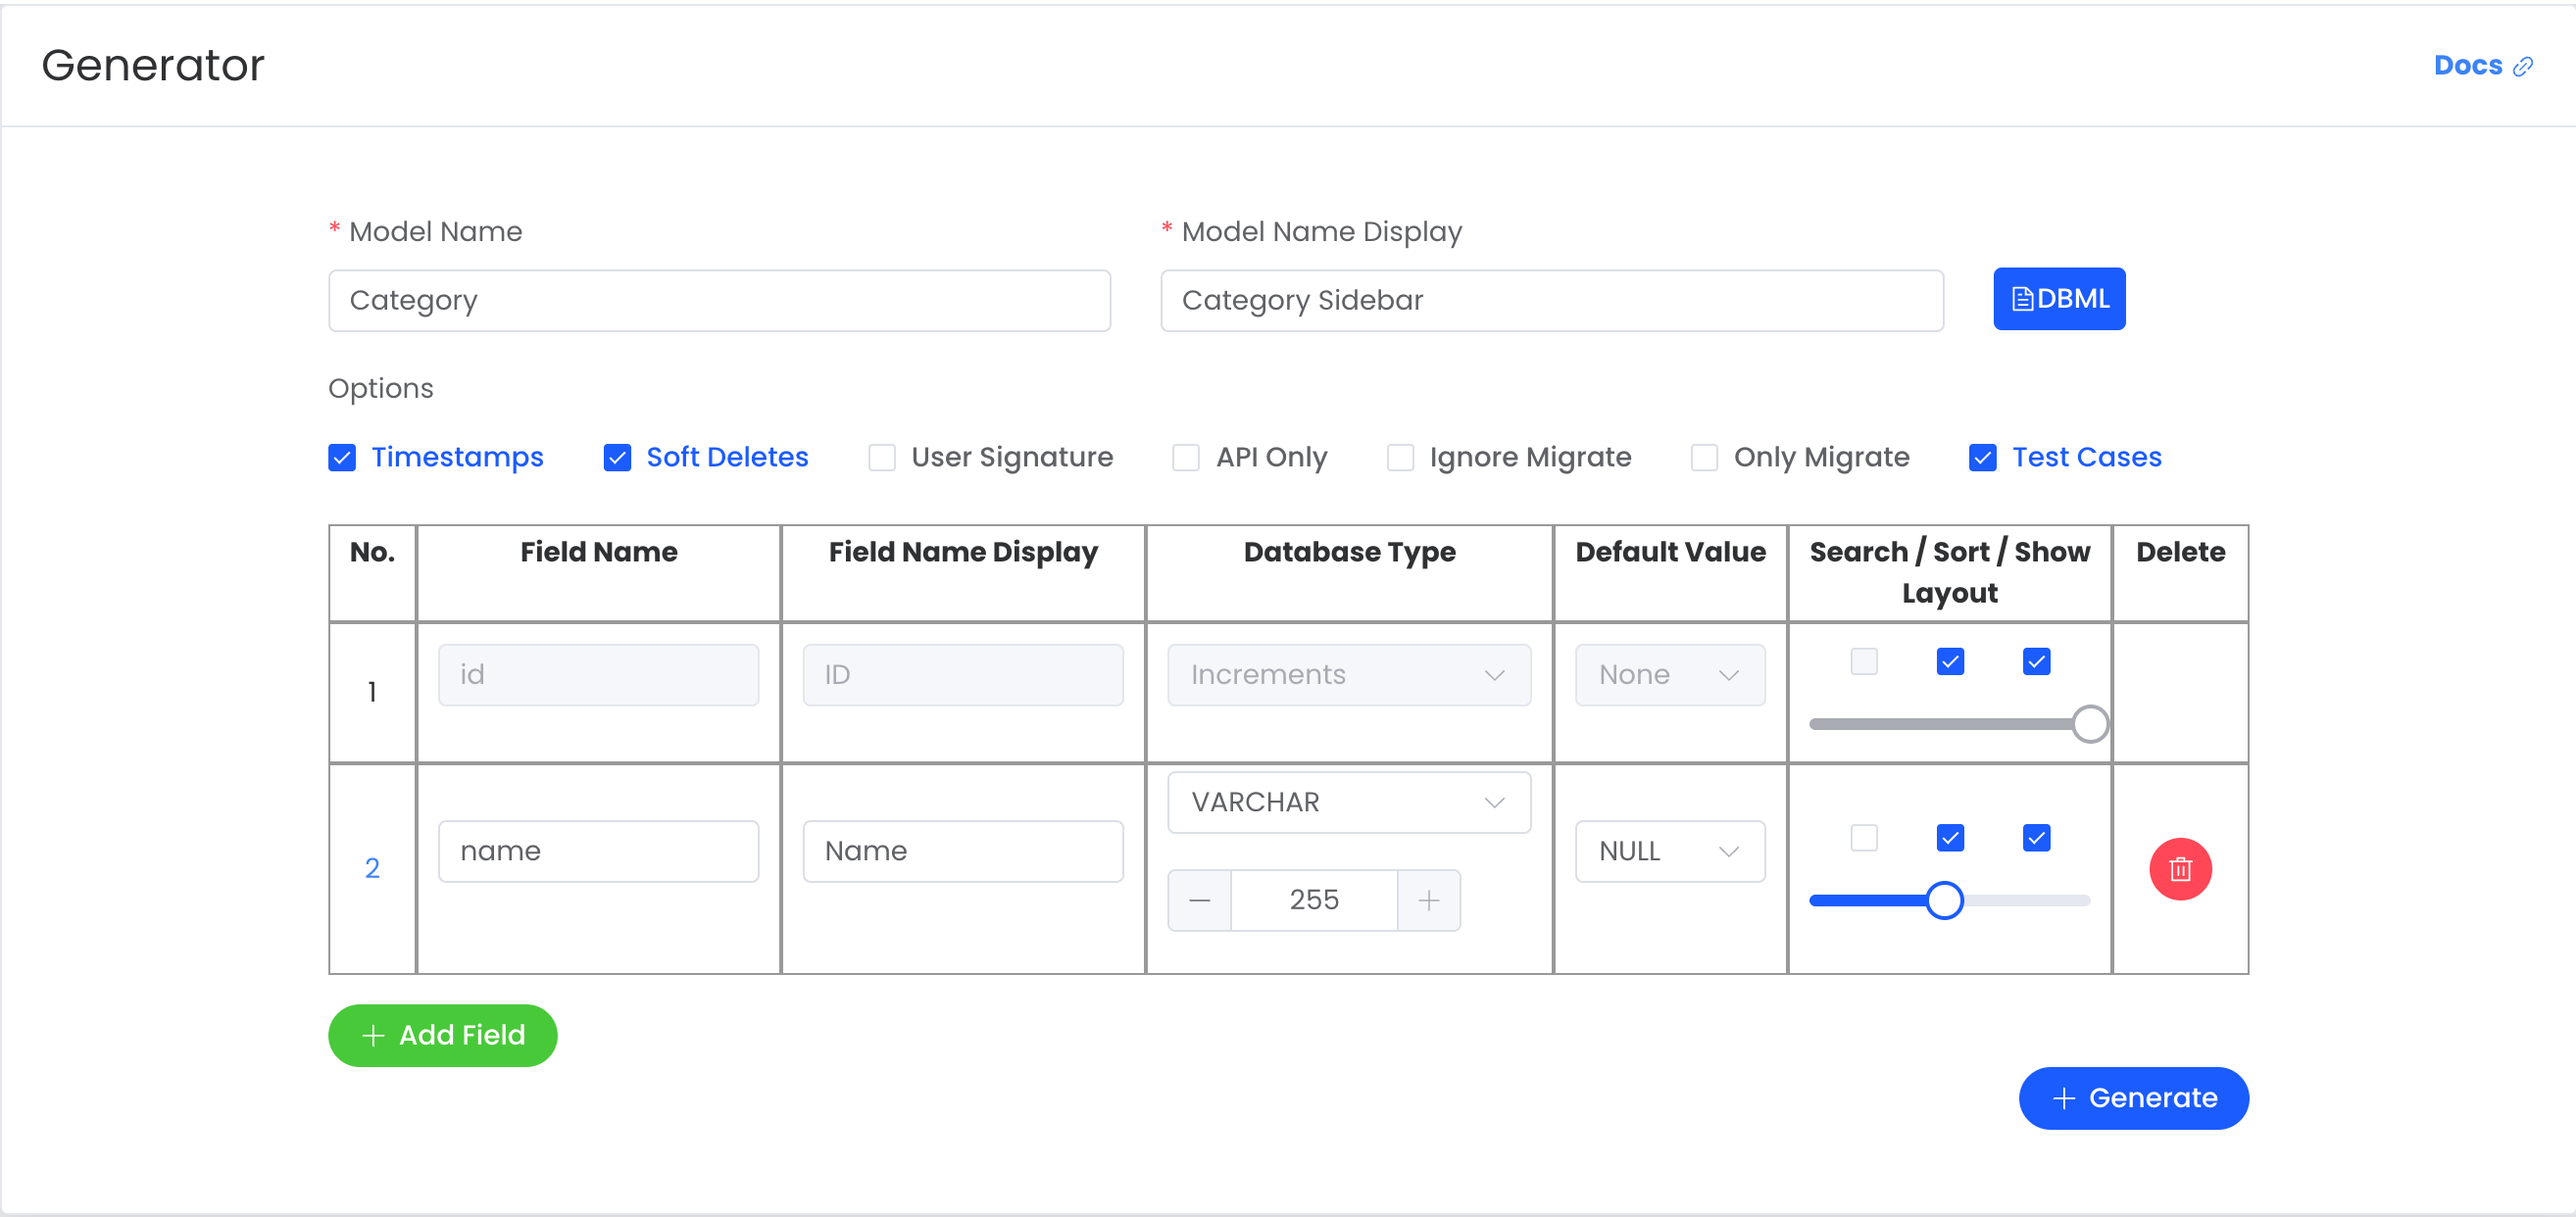
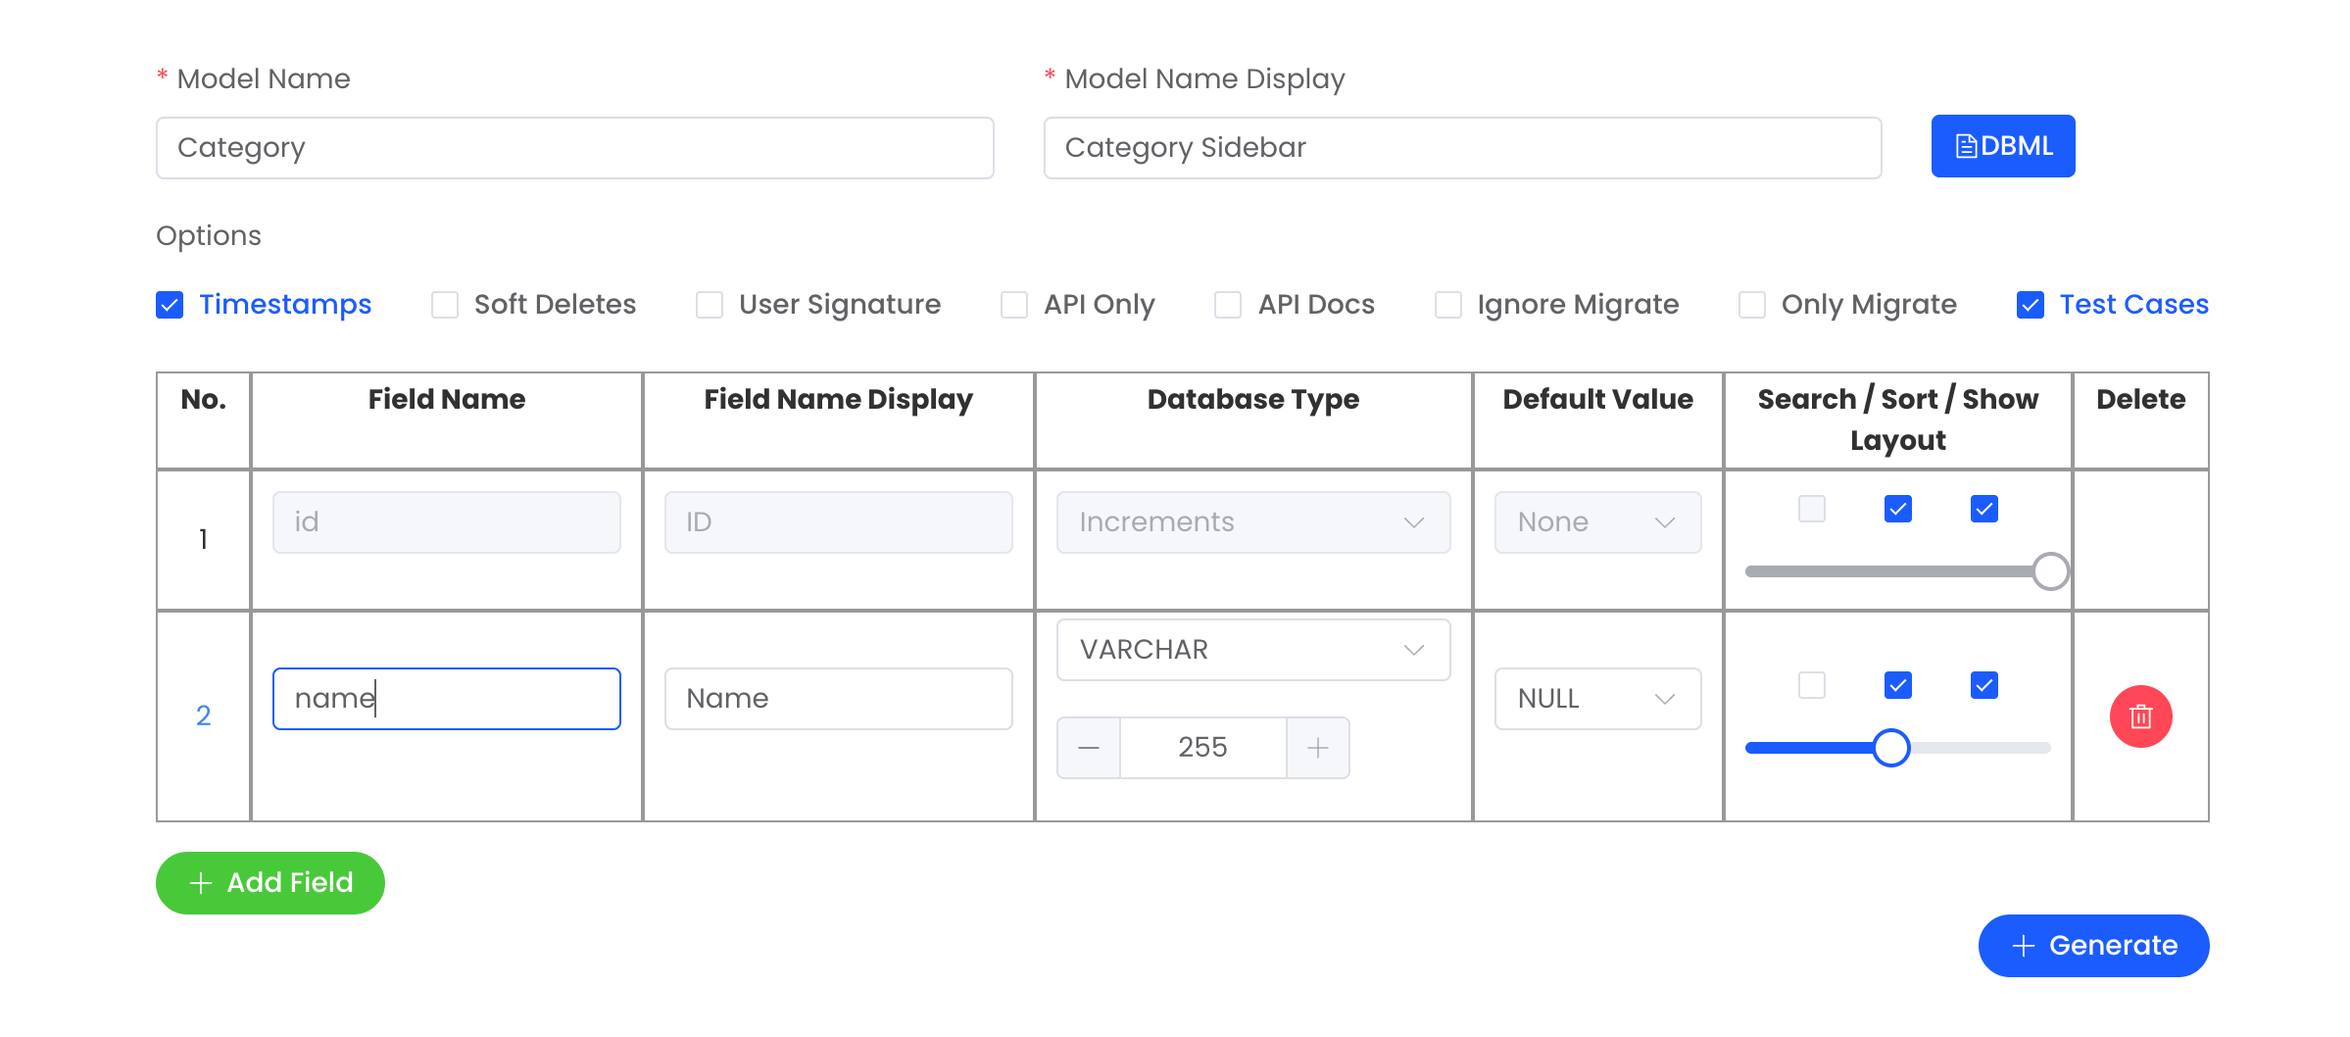
docs: generate api docs

diff --git a/docs/generators/getting-started.md b/docs/generators/getting-started.md
@@ -64,10 +64,284 @@ The **Generator** allows users to define and configure models along with their f
 | `Timestamps`     | Automatically adds `created_at` and `updated_at` columns to the table.           | Checked     |             | Optional       |
 | `Soft Deletes`   | Adds support for soft deletion (adds a `deleted_at` column).                     | Checked     |             | Optional       |
 | `User Signature` | Adds `created_by` and `updated_by` columns to track who created/updated records. | UnChecked   |             | Optional       |
-| `APi Only`       | Only generate the API                                                            | UnChecked   |             | Optional       |
+| `API Only`       | Only generate the API.                                                           | UnChecked   |             | Optional       |
+| `API Docs`       | Generate docs for the API. [Learn more](#if-you-enable-api-docs)                 | UnChecked   |             | Optional       |
 | `Ignore Migrate` | Skips running database migrations.                                               | UnChecked   |             | Optional       |
 | `Only Migrate`   | Only generate migration and Model.                                               | UnChecked   |             | Optional       |
 | `Test Cases`     | Generates test cases for the model and related services.                         | Checked     |             | Optional       |
+
+#### If you enable API Docs
+
+::: details API Docs <Badge type="danger" text="Required" />
+Install the Scribe package first:
+
+```bash
+composer require knuckleswtf/scribe
+```
+
+Reference config (Optional):
+
+```php
+<?php
+
+declare(strict_types=1);
+
+use Knuckles\Scribe\Extracting\Strategies;
+
+return [
+    // The HTML <title> for the generated documentation. If this is empty, Scribe will infer it from config('app.name').
+    'title' => 'LaraJS API Documentation',
+
+    // A short description of your API. Will be included in the docs webpage, Postman collection and OpenAPI spec.
+    'description' => '',
+
+    // The base URL displayed in the docs. If this is empty, Scribe will use the value of config('app.url') at generation time.
+    // If you're using `laravel` type, you can set this to a dynamic string, like '{{ config("app.tenant_url") }}' to get a dynamic base URL.
+    'base_url' => null,
+
+    'routes' => [
+        [
+            // Routes that match these conditions will be included in the docs
+            'match' => [
+                // Match only routes whose paths match this pattern (use * as a wildcard to match any characters). Example: 'users/*'.
+                'prefixes' => ['api/*'],
+
+                // Match only routes whose domains match this pattern (use * as a wildcard to match any characters). Example: 'api.*'.
+                'domains' => ['*'],
+
+                // [Dingo router only] Match only routes registered under this version. Wildcards are NOT supported.
+                'versions' => ['v1'],
+            ],
+
+            // Include these routes even if they did not match the rules above.
+            'include' => [
+                // 'users.index', 'POST /new', '/auth/*'
+            ],
+
+            // Exclude these routes even if they matched the rules above.
+            'exclude' => ['api/v1/generators*'],
+        ],
+    ],
+
+    // The type of documentation output to generate.
+    // - "static" will generate a static HTMl page in the /public/docs folder,
+    // - "laravel" will generate the documentation as a Blade view, so you can add routing and authentication.
+    // - "external_static" and "external_laravel" do the same as above, but generate a basic template,
+    // passing the OpenAPI spec as a URL, allowing you to easily use the docs with an external generator
+    'type' => 'external_static',
+
+    // See https://scribe.knuckles.wtf/laravel/reference/config#theme for supported options
+    'theme' => 'elements',
+
+    'static' => [
+        // HTML documentation, assets and Postman collection will be generated to this folder.
+        // Source Markdown will still be in resources/docs.
+        'output_path' => 'public/docs',
+    ],
+
+    'laravel' => [
+        // Whether to automatically create a docs endpoint for you to view your generated docs.
+        // If this is false, you can still set up routing manually.
+        'add_routes' => false,
+
+        // URL path to use for the docs endpoint (if `add_routes` is true).
+        // By default, `/docs` opens the HTML page, `/docs.postman` opens the Postman collection, and `/docs.openapi` the OpenAPI spec.
+        'docs_url' => '/docs',
+
+        // Directory within `public` in which to store CSS and JS assets.
+        // By default, assets are stored in `public/vendor/scribe`.
+        // If set, assets will be stored in `public/{{assets_directory}}`
+        'assets_directory' => null,
+
+        // Middleware to attach to the docs endpoint (if `add_routes` is true).
+        'middleware' => [],
+    ],
+
+    'external' => [
+        'html_attributes' => [],
+    ],
+
+    'try_it_out' => [
+        // Add a Try It Out button to your endpoints so consumers can test endpoints right from their browser.
+        // Don't forget to enable CORS headers for your endpoints.
+        'enabled' => true,
+
+        // The base URL for the API tester to use (for example, you can set this to your staging URL).
+        // Leave as null to use the current app URL when generating (config("app.url")).
+        'base_url' => null,
+
+        // [Laravel Sanctum] Fetch a CSRF token before each request, and add it as an X-XSRF-TOKEN header.
+        'use_csrf' => true,
+
+        // The URL to fetch the CSRF token from (if `use_csrf` is true).
+        'csrf_url' => '/sanctum/csrf-cookie',
+    ],
+
+    // How is your API authenticated? This information will be used in the displayed docs, generated examples and response calls.
+    'auth' => [
+        // Set this to true if ANY endpoints in your API use authentication.
+        'enabled' => true,
+
+        // Set this to true if your API should be authenticated by default. If so, you must also set `enabled` (above) to true.
+        // You can then use @unauthenticated or @authenticated on individual endpoints to change their status from the default.
+        'default' => false,
+
+        // Where is the auth value meant to be sent in a request?
+        // Options: query, body, basic, bearer, header (for custom header)
+        'in' => 'bearer',
+
+        // The name of the auth parameter (eg token, key, apiKey) or header (eg Authorization, Api-Key).
+        'name' => 'Authorization',
+
+        // The value of the parameter to be used by Scribe to authenticate response calls.
+        // This will NOT be included in the generated documentation. If empty, Scribe will use a random value.
+        'use_value' => env('SCRIBE_AUTH_KEY'),
+
+        // Placeholder your users will see for the auth parameter in the example requests.
+        // Set this to null if you want Scribe to use a random value as placeholder instead.
+        'placeholder' => '{ACCESS_TOKEN}',
+
+        // Any extra authentication-related info for your users. Markdown and HTML are supported.
+        'extra_info' => 'You can retrieve your token by visiting your dashboard and clicking <b>Generate API token</b>.',
+    ],
+
+    // Text to place in the "Introduction" section, right after the `description`. Markdown and HTML are supported.
+    'intro_text' => <<<'INTRO'
+    This documentation aims to provide all the information you need to work with our API.
+
+    <aside>As you scroll, you'll see code examples for working with the API in different programming languages in the dark area to the right (or as part of the content on mobile).
+    You can switch the language used with the tabs at the top right (or from the nav menu at the top left on mobile).</aside>
+    INTRO
+    ,
+    // Example requests for each endpoint will be shown in each of these languages.
+    // Supported options are: bash, javascript, php, python
+    // To add a language of your own, see https://scribe.knuckles.wtf/laravel/advanced/example-requests
+    'example_languages' => ['bash', 'javascript'],
+
+    // Generate a Postman collection (v2.1.0) in addition to HTML docs.
+    // For 'static' docs, the collection will be generated to public/docs/collection.json.
+    // For 'laravel' docs, it will be generated to storage/app/scribe/collection.json.
+    // Setting `laravel.add_routes` to true (above) will also add a route for the collection.
+    'postman' => [
+        'enabled' => true,
+
+        'overrides' => [
+            // 'info.version' => '2.0.0',
+        ],
+    ],
+
+    // Generate an OpenAPI spec (v3.0.1) in addition to docs webpage.
+    // For 'static' docs, the collection will be generated to public/docs/openapi.yaml.
+    // For 'laravel' docs, it will be generated to storage/app/scribe/openapi.yaml.
+    // Setting `laravel.add_routes` to true (above) will also add a route for the spec.
+    'openapi' => [
+        'enabled' => true,
+
+        'overrides' => [
+            // 'info.version' => '2.0.0',
+        ],
+    ],
+
+    'groups' => [
+        // Endpoints which don't have a @group will be placed in this default group.
+        'default' => 'Endpoints',
+
+        // By default, Scribe will sort groups alphabetically, and endpoints in the order their routes are defined.
+        // You can override this by listing the groups, subgroups and endpoints here in the order you want them.
+        // See https://scribe.knuckles.wtf/blog/laravel-v4#easier-sorting and https://scribe.knuckles.wtf/laravel/reference/config#order for details
+        'order' => [],
+    ],
+
+    // Custom logo path. This will be used as the value of the src attribute for the <img> tag,
+    // so make sure it points to an accessible URL or path. Set to false to not use a logo.
+    // For example, if your logo is in public/img:
+    // - 'logo' => '../img/logo.png' // for `static` type (output folder is public/docs)
+    // - 'logo' => 'img/logo.png' // for `laravel` type
+    'logo' => '../images/logo.png',
+
+    // Customize the "Last updated" value displayed in the docs by specifying tokens and formats.
+    // Examples:
+    // - {date:F j Y} => March 28, 2022
+    // - {git:short} => Short hash of the last Git commit
+    // Available tokens are `{date:<format>}` and `{git:<format>}`.
+    // The format you pass to `date` will be passed to PHP's `date()` function.
+    // The format you pass to `git` can be either "short" or "long".
+    'last_updated' => 'Last updated: {date:F j, Y}',
+
+    'examples' => [
+        // Set this to any number (eg. 1234) to generate the same example values for parameters on each run,
+        'faker_seed' => null,
+
+        // With API resources and transformers, Scribe tries to generate example models to use in your API responses.
+        // By default, Scribe will try the model's factory, and if that fails, try fetching the first from the database.
+        // You can reorder or remove strategies here.
+        'models_source' => ['factoryCreate', 'factoryMake', 'databaseFirst'],
+    ],
+
+    // The strategies Scribe will use to extract information about your routes at each stage.
+    // If you create or install a custom strategy, add it here.
+    'strategies' => [
+        'metadata' => [
+            Strategies\Metadata\GetFromDocBlocks::class,
+            Strategies\Metadata\GetFromMetadataAttributes::class,
+        ],
+        'urlParameters' => [
+            Strategies\UrlParameters\GetFromLaravelAPI::class,
+            Strategies\UrlParameters\GetFromUrlParamAttribute::class,
+            Strategies\UrlParameters\GetFromUrlParamTag::class,
+        ],
+        'queryParameters' => [
+            Strategies\QueryParameters\GetFromFormRequest::class,
+            Strategies\QueryParameters\GetFromInlineValidator::class,
+            Strategies\QueryParameters\GetFromQueryParamAttribute::class,
+            Strategies\QueryParameters\GetFromQueryParamTag::class,
+        ],
+        'headers' => [
+            Strategies\Headers\GetFromHeaderAttribute::class,
+            Strategies\Headers\GetFromHeaderTag::class,
+            [
+                'override',
+                [
+                    'Content-Type' => 'application/json',
+                    'Accept' => 'application/json',
+                ],
+            ],
+        ],
+        'bodyParameters' => [
+            Strategies\BodyParameters\GetFromFormRequest::class,
+            Strategies\BodyParameters\GetFromInlineValidator::class,
+            Strategies\BodyParameters\GetFromBodyParamAttribute::class,
+            Strategies\BodyParameters\GetFromBodyParamTag::class,
+        ],
+        'responses' => [
+            Strategies\Responses\UseResponseAttributes::class,
+            Strategies\Responses\UseTransformerTags::class,
+            Strategies\Responses\UseApiResourceTags::class,
+            Strategies\Responses\UseResponseTag::class,
+            Strategies\Responses\UseResponseFileTag::class,
+        ],
+        'responseFields' => [
+            Strategies\ResponseFields\GetFromResponseFieldAttribute::class,
+            Strategies\ResponseFields\GetFromResponseFieldTag::class,
+        ],
+    ],
+
+    // For response calls, API resource responses and transformer responses,
+    // Scribe will try to start database transactions, so no changes are persisted to your database.
+    // Tell Scribe which connections should be transacted here. If you only use one db connection, you can leave this as is.
+    'database_connections_to_transact' => [config('database.default')],
+
+    'fractal' => [
+        // If you are using a custom serializer with league/fractal, you can specify it here.
+        'serializer' => null,
+    ],
+
+    'routeMatcher' => \Knuckles\Scribe\Matching\RouteMatcher::class,
+];
+
+```
+
+:::
 
 ## Fields Configuration
 
